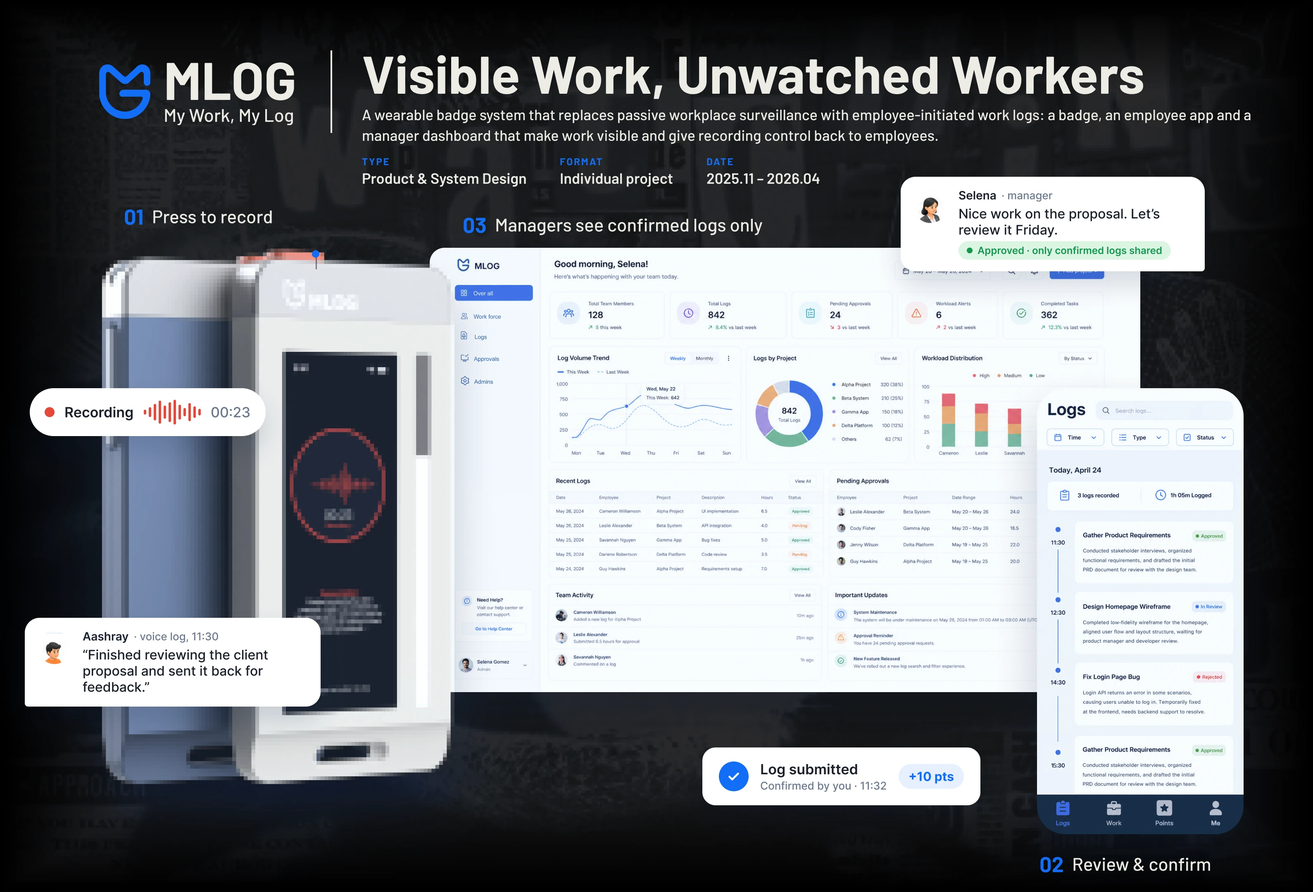
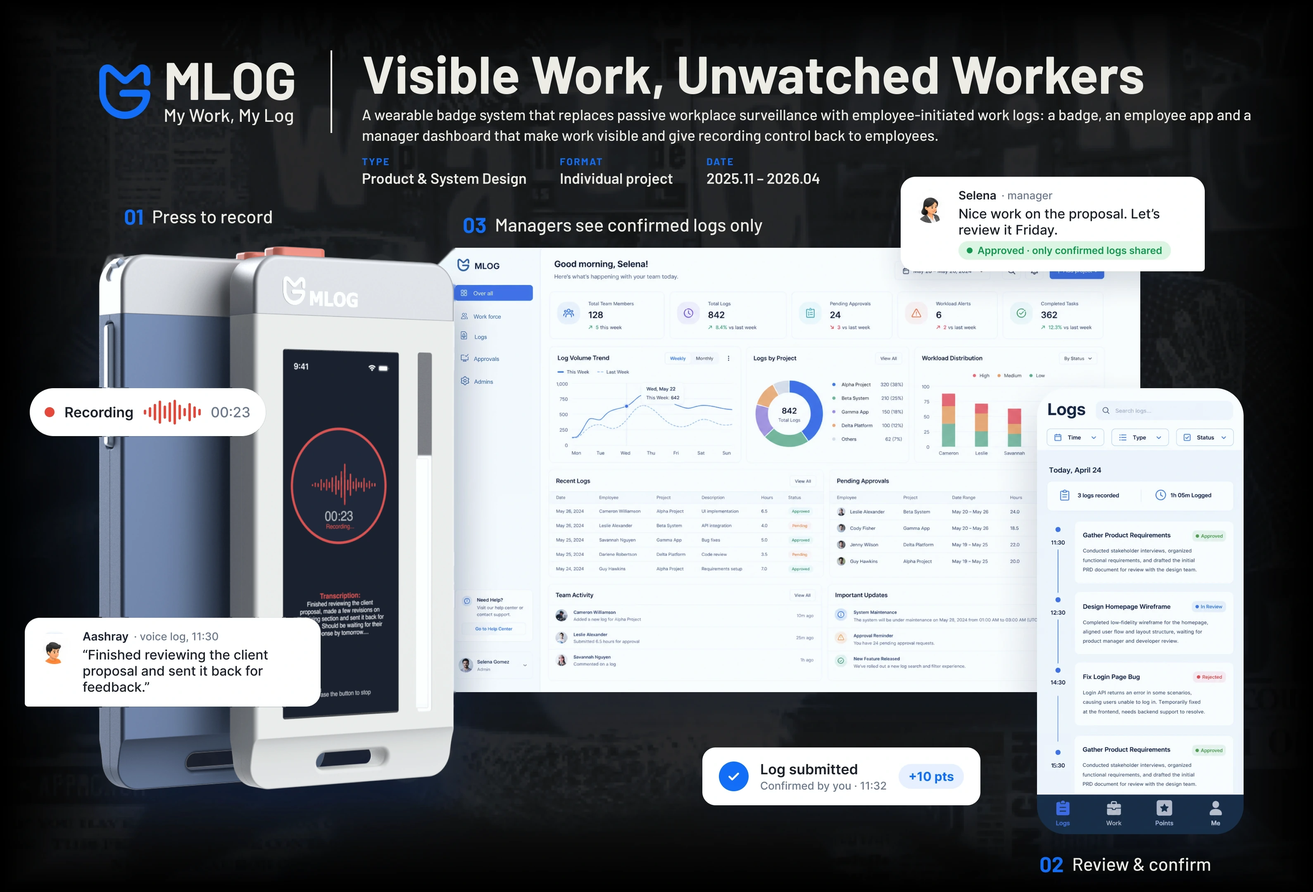
Add Other Works (Interlock Chair, Silverfish, Latent Poem), unify hero entry, Center timeline alignment, MLOG hi-res badges
Claude-Session: https://claude.ai/code/session_01G8eGd7PbTq8hJRgyPBn6mp

diff --git a/otherworks.html b/otherworks.html
@@ -1,0 +1,136 @@
+<!doctype html>
+<html lang="en">
+<head>
+<meta charset="utf-8">
+<meta name="viewport" content="width=device-width,initial-scale=1">
+<meta name="theme-color" content="#050505">
+<title>Other Works · Yihan Zeng</title>
+<meta name="description" content="Other works by Yihan Zeng: an interlocking cardboard chair, a cat fountain for small homes, and Latent Poem, a digital darkroom for film poems.">
+<link rel="stylesheet" href="css/case.css">
+<link rel="stylesheet" href="css/story.css">
+<style>
+:root { --acc: #ff8052 }
+.work-meta { display: flex; flex-wrap: wrap; gap: 6px 22px; margin: 2vh 0 6vh; color: var(--muted) }
+.work-meta span::before { content: "·  "; color: var(--acc) } .work-meta span:first-child::before { content: "" }
+.duo { display: grid; grid-template-columns: minmax(0, 1.5fr) minmax(0, 1fr); gap: clamp(20px, 3vw, 44px); align-items: start }
+.duo.flip { grid-template-columns: minmax(0, 1fr) minmax(0, 1.5fr) }
+.duo figure, .duo2 figure { margin: 0 }
+.cap { display: block; margin-top: 10px; font: 400 11.5px/1.4 var(--mono); letter-spacing: .12em; text-transform: uppercase; color: var(--muted) }
+.lbl { font: 400 11.5px/1.4 var(--mono); letter-spacing: .14em; text-transform: uppercase; color: var(--acc); margin: 0 0 10px; display: block }
+.body p { color: #c5c5be; margin: 0 0 14px; max-width: 34em }
+.cover-fit { aspect-ratio: 4 / 3; object-fit: cover }
+.film { margin-top: 8vh; display: grid; grid-template-columns: minmax(0, 1.2fr) minmax(0, 1fr); gap: clamp(20px, 3vw, 44px); align-items: start }
+.film img { width: 100%; display: block; border-radius: 6px }
+.poem { font: italic 400 clamp(26px, 2.8vw, 40px)/1.25 Garamond, Georgia, serif; color: var(--text); border-left: 2px solid var(--acc); padding: 4px 0 4px 26px; margin: 0 0 18px }
+.trio { --n: 3 } .trio-t { display: block; color: inherit; text-decoration: none } .trio-t img { width: 100%; aspect-ratio: 4 / 3; object-fit: cover; display: block; border-radius: 6px; transition: transform .35s } .trio-t:hover img { transform: translateY(-3px) } .trio-t .cap b { color: var(--acc); font-weight: 400; margin-right: 8px }
+.sec-entry { margin: -2vh 0 7vh }
+@media (max-width: 900px) { .duo, .duo.flip, .film { grid-template-columns: 1fr } }
+</style>
+</head>
+<body>
+<div class="readbar"></div>
+<header class="top">
+  <a class="name" href="index.html"><span class="name-big">YIHAN ZENG</span><span class="name-sub">Industrial &amp; interaction design</span></a>
+  <nav class="menu"><a href="index.html">Work</a><a href="index.html#about">About</a><a href="index.html#contact">Contact</a></nav>
+</header>
+
+<main>
+<section class="c-hero wrap">
+  <a class="c-back mono" href="index.html?project=otherworks">← All projects</a>
+  <div class="c-kicker mono"><span>06 / 06</span><span>Selected side projects</span></div>
+  <h1 class="c-title long">Other<br>Works</h1>
+  <p class="c-sub">Three smaller projects, each made around a material or a medium: <em>a chair cut from cardboard, a fountain for a cat, a darkroom for words.</em></p>
+  <div class="c-entry" aria-label="Interactive prototype"><a class="c-entry-btn" href="https://yi-ziii.github.io/LATENT-POEM/" target="_blank" rel="noopener"><span class="dot"></span><span class="t">Open Latent Poem</span><span class="arr"><svg viewBox="0 0 24 24" fill="none" stroke="currentColor" stroke-width="2.8" stroke-linecap="round" stroke-linejoin="round" aria-hidden="true"><path d="M6 18L18 6M8.5 6H18v9.5"/></svg></span></a><span class="c-entry-note">Interactive · a digital darkroom that turns photographs and words into film poems</span></div>
+  <dl class="c-meta">
+    <div><dt>01 · Interlock Chair</dt><dd>2024 · Furniture design · Built prototype</dd></div>
+    <div><dt>02 · Silverfish</dt><dd>2026 · Pet product design · Design internship at Jingong Design</dd></div>
+    <div><dt>03 · Latent Poem</dt><dd>2026 · Creative coding · Interactive web prototype for Code Society</dd></div>
+  </dl>
+  <div class="g trio">
+    <a class="trio-t" href="#chair"><img src="assets/otherworks/chair-photo.webp" alt="Interlock Chair"><span class="cap"><b>01</b> Interlock Chair</span></a>
+    <a class="trio-t" href="#silverfish"><img src="assets/otherworks/sf-room.webp" alt="Silverfish"><span class="cap"><b>02</b> Silverfish</span></a>
+    <a class="trio-t" href="#latent"><img src="assets/otherworks/lp-expose.webp" alt="Latent Poem"><span class="cap"><b>03</b> Latent Poem ↗</span></a>
+  </div>
+</section>
+
+<nav class="c-nav" aria-label="Chapters"><ol>
+  <li><a href="#chair"><b>01</b>Interlock Chair</a></li>
+  <li><a href="#silverfish"><b>02</b>Silverfish</a></li>
+  <li><a href="#latent"><b>03</b>Latent Poem ↗</a></li>
+</ol></nav>
+
+<div class="wrap">
+
+<!-- 01 -->
+<section class="c-sec" id="chair">
+  <div class="c-head reveal"><div class="c-num">01</div><div>
+    <h2 class="c-h">Interlock Chair</h2>
+    <p class="c-lede">A rounded chair built from interlocking sheets of corrugated cardboard. The first object I designed and built.</p>
+  </div></div>
+  <div class="work-meta mono reveal"><span>Furniture design</span><span>2024</span><span>Built prototype</span><span>Design and fabrication</span></div>
+  <div class="duo reveal">
+    <figure><span class="lbl">Built prototype</span><img class="im" src="assets/otherworks/chair-photo.webp" alt="The finished corrugated cardboard chair" data-zoom="assets/otherworks/chair-photo.webp"><span class="cap">Finished chair / corrugated cardboard</span></figure>
+    <figure><span class="lbl">The slotted joint</span><img class="im" src="assets/otherworks/chair-joint.webp" alt="Close-up of the prototype’s rib joints" data-zoom="assets/otherworks/chair-joint.webp"><span class="cap">Seat and side ribs</span>
+      <div class="body" style="margin-top:16px"><p>Each slotted rib fits over the ribs running across it. The same grid shapes the seat, the sides and the back.</p></div></figure>
+  </div>
+  <h3 class="c-sub-h reveal">From shell to ribs</h3>
+  <p class="c-lede reveal" style="margin-bottom:4vh">I opened up a radial shell to make room for a recessed seat, then developed an intersecting rib grid that carries the curve through the arms and back.</p>
+  <div class="g reveal" style="--n:4">
+    <figure class="tile"><img class="im" src="assets/otherworks/chair-shell.webp" alt="Radial shell sketch" data-zoom="assets/otherworks/chair-shell.webp"><span class="cap">01 / Radial shell</span></figure>
+    <figure class="tile"><img class="im" src="assets/otherworks/chair-ribs.webp" alt="Crossing ribs sketch" data-zoom="assets/otherworks/chair-ribs.webp"><span class="cap">02 / Crossing ribs</span></figure>
+    <figure class="tile"><img class="im" src="assets/otherworks/chair-profile.webp" alt="Revised profile in CAD" data-zoom="assets/otherworks/chair-profile.webp"><span class="cap">03 / Revised profile</span></figure>
+    <figure class="tile"><img class="im" src="assets/otherworks/chair-cad.webp" alt="Final CAD form" data-zoom="assets/otherworks/chair-cad.webp"><span class="cap">04 / Final CAD form</span></figure>
+  </div>
+</section>
+
+<!-- 02 -->
+<section class="c-sec" id="silverfish">
+  <div class="c-head reveal"><div class="c-num">02</div><div>
+    <h2 class="c-h">Silverfish</h2>
+    <p class="c-lede">A cat fountain for small homes, designed around visible water and easier cleaning.</p>
+  </div></div>
+  <div class="work-meta mono reveal"><span>Pet product design</span><span>2026</span><span>Jingong Design</span><span>Design internship</span></div>
+  <div class="duo reveal">
+    <figure><span class="lbl">Final concept</span><img class="im" src="assets/otherworks/sf-room.webp" alt="Silverfish in a home interior" data-zoom="assets/otherworks/sf-room.webp"><span class="cap">Product render / small-home context</span></figure>
+    <figure><span class="lbl">Designed to come apart</span><img class="im" src="assets/otherworks/sf-explode.webp" alt="Exploded assembly: bowl, reservoir and base" data-zoom="assets/otherworks/sf-explode.webp"><span class="cap">Bowl / reservoir / base</span>
+      <div class="body" style="margin-top:16px"><p>The removable bowl and reservoir separate from the weighted base for cleaning.</p><p>The concept also proposes sensor-triggered flow, filtration and UV treatment.</p></div></figure>
+  </div>
+  <div class="g reveal" style="--n:2;margin-top:8vh">
+    <div class="body"><span class="lbl">Two needs from the brief</span><p>Draw the cat towards the water and simplify routine cleaning for people living in compact homes.</p>
+      <span class="lbl" style="margin-top:28px">Making water visible</span><p>Two outlets create a moving sheet of water. A rippled bowl inspired by spiral shells and small fish-shaped elements make that movement visible.</p></div>
+    <div class="body"><span class="lbl">From sketch to form</span><p>The studies moved from a broad bowl on a low base to a deeper, rippled bowl on a compact upright reservoir.</p></div>
+  </div>
+  <div class="g reveal" style="--n:2;margin-top:4vh">
+    <figure class="tile"><img class="im" src="assets/otherworks/sf-sketch.webp" alt="Water flow, form and assembly sketches" data-zoom="assets/otherworks/sf-sketch.webp"><span class="cap">Form and flow sketches</span></figure>
+    <figure class="tile"><img class="im" src="assets/otherworks/sf-iter.webp" alt="Three generations of product concepts" data-zoom="assets/otherworks/sf-iter.webp"><span class="cap">Three form iterations</span></figure>
+  </div>
+</section>
+
+<!-- 03 -->
+<section class="c-sec" id="latent">
+  <div class="c-head reveal"><div class="c-num">03</div><div>
+    <h2 class="c-h">Latent Poem</h2>
+    <p class="c-lede">A digital darkroom that turns shared photographs and words into film poems.</p>
+  </div></div>
+  <div class="c-entry sec-entry reveal" aria-label="Interactive prototype"><a class="c-entry-btn" href="https://yi-ziii.github.io/LATENT-POEM/" target="_blank" rel="noopener"><span class="dot"></span><span class="t">Open Latent Poem</span><span class="arr"><svg viewBox="0 0 24 24" fill="none" stroke="currentColor" stroke-width="2.8" stroke-linecap="round" stroke-linejoin="round" aria-hidden="true"><path d="M6 18L18 6M8.5 6H18v9.5"/></svg></span></a><span class="c-entry-note">Interactive · expose, develop and record your own film poem</span></div>
+  <div class="work-meta mono reveal"><span>Creative coding</span><span>2026</span><span>Code Society</span><span>Interactive web prototype</span></div>
+  <h3 class="c-sub-h reveal" style="margin-top:0">Three steps in the digital darkroom</h3>
+  <div class="g reveal" style="--n:3">
+    <figure class="tile"><img class="im" src="assets/otherworks/lp-expose.webp" alt="Expose: the photograph and word screen" data-zoom="assets/otherworks/lp-expose.webp"><h4><span class="mono">01 / Expose</span></h4><p>Contribute one photograph and one word. Use blur, grain or displacement to change the exposure.</p></figure>
+    <figure class="tile"><img class="im" src="assets/otherworks/lp-develop.webp" alt="Develop: words on the track" data-zoom="assets/otherworks/lp-develop.webp"><h4><span class="mono">02 / Develop</span></h4><p>Drag words onto the track to build a line. The images follow the new word order.</p></figure>
+    <figure class="tile"><img class="im" src="assets/otherworks/lp-record.webp" alt="Record: saved poems" data-zoom="assets/otherworks/lp-record.webp"><h4><span class="mono">03 / Record</span></h4><p>Save the finished poem and image sequence. The Records view lets you revisit both in the browser.</p></figure>
+  </div>
+  <div class="film reveal">
+    <figure><span class="lbl">From browsing to making</span><img src="assets/otherworks/lp-source.webp" alt="Source board showing one word per photograph" data-zoom="assets/otherworks/lp-source.webp"><div class="body" style="margin-top:14px"><p>Society members supplied one word per image. An early prototype let visitors browse the archive. In Latent Poem, those same pairs became the material visitors could rearrange into their own poems.</p></div></figure>
+    <figure><span class="lbl">On the board / printed film poems</span><img src="assets/otherworks/lp-board.webp" alt="A printed film poem pinned on the exhibition board" data-zoom="assets/otherworks/lp-board.webp"><div class="body" style="margin-top:14px"><p class="poem">I have spread<br>my dream<br>under your feet</p><p>Each poem was printed with my film camera printer as a strip of photographs, labelled word by word, and pinned over the prototype screens.</p></div></figure>
+  </div>
+</section>
+</div>
+
+<a class="c-next" href="center.html"><div><span class="mono">Back to the start · 01</span><b>Should Humans Remain at the Center?</b></div><span class="arrow">→</span></a>
+</main>
+<footer class="foot"><span>© 2026 Yihan Zeng</span><a href="#">Back to top ↑</a></footer>
+
+<script src="js/case.js"></script>
+</body>
+</html>

diff --git a/center.html b/center.html
@@ -70,7 +70,7 @@
 .tl-img { position: relative }
 .tl-img i { position: absolute; bottom: 0; width: 1.5px; margin-left: -1px; background: #d9d3c3 }
 .tl-img i::before { content: ""; position: absolute; top: -4px; left: -3.25px; width: 8px; height: 8px; border-radius: 50% ; background: #d9d3c3 }
-.eras { list-style: none; margin: 0; padding: 0 0 0 10%; display: grid; grid-template-columns: 23% 17% 16% 18% 16% }
+.eras { list-style: none; margin: 0; padding: 0; display: grid; grid-template-columns: 10% 23% 17% 16% 18% 16% } .eras::before { content: "" }
 .eras li { border-left: 1.5px solid #d9d3c3; padding: 18px 16px 4px 14px; margin-left: -1px; position: relative }
 .eras h4 { margin: 8px 0 6px; font: 600 18px/1.2 var(--sans) } .eras p { margin: 0; color: #bdbdb6; font-size: 15px; max-width: 15em }
 .eras .now h4, .eras .now .mono { color: var(--acc) }
@@ -181,7 +181,7 @@
   .turnq, .play-card, .debate, .sides, .swap, .rules, .turns, .ways, .focus, .concept, .stairs, .sculpt, .sculpt:nth-child(even), .rings, .voices4 { grid-template-columns: 1fr }
   .sculpt:nth-child(even) .sk-pics { order: 0 }
   .side-cat .voices li::after, .side-painting .voices li::after { display: none }
-  .eras { grid-template-columns: 1fr 1fr; padding: 3vh var(--gutter) 0; gap: 22px 18px } .eras li { border-left: 0; border-top: 1.5px solid #d9d3c3; padding: 12px 0 0 } .tl-img i { display: none } .survey-key { grid-template-columns: 1fr 1fr } .survey-key p { grid-column: 1 / -1 }
+  .eras { grid-template-columns: 1fr 1fr; padding: 3vh var(--gutter) 0; gap: 22px 18px } .eras::before { display: none } .eras li { border-left: 0; border-top: 1.5px solid #d9d3c3; padding: 12px 0 0 } .tl-img i { display: none } .survey-key { grid-template-columns: 1fr 1fr } .survey-key p { grid-column: 1 / -1 }
   .mx-row, .qt-row { grid-template-columns: 1fr } .mx-head, .qt-head { display: none }
   .chain, .io { grid-template-columns: 1fr 1fr } .chain li::after { display: none }
   .flow7 { grid-auto-columns: 78% } .making { columns: 2 }
@@ -200,10 +200,10 @@
 <main>
 <section class="c-hero wrap">
   <a class="c-back mono" href="index.html?project=center">← All projects</a>
-  <div class="c-kicker mono"><span>01 / 05</span><span>Interactive installation</span></div>
+  <div class="c-kicker mono"><span>01 / 06</span><span>Interactive installation</span></div>
   <h1 class="c-title long">Should Humans Remain at the Center?</h1>
   <p class="c-sub">Humans have always stood at the center. Now we want to leave. <em>But leaving is never free.</em></p>
-  <div class="c-live" aria-label="Live pages"><a class="c-live-btn" href="center-experience/" target="_blank" rel="noopener"><span class="dot"></span>Play the digital edition<i>↗</i></a></div>
+  <div class="c-entry" aria-label="Live page"><a class="c-entry-btn" href="center-experience/" target="_blank" rel="noopener"><span class="dot"></span><span class="t">Play the digital edition</span><span class="arr"><svg viewBox="0 0 24 24" fill="none" stroke="currentColor" stroke-width="2.8" stroke-linecap="round" stroke-linejoin="round" aria-hidden="true"><path d="M6 18L18 6M8.5 6H18v9.5"/></svg></span></a><span class="c-entry-note">Interactive · four sculptures, twelve questions, sound on</span></div>
   <dl class="c-meta">
     <div><dt>Format</dt><dd>Interactive installation · four sculptures · voice</dd></div>
     <div><dt>Research</dt><dd>205-person survey · 12 situations</dd></div>

diff --git a/css/case.css b/css/case.css
@@ -320,3 +320,16 @@ body.mode-pdf .pdfview { display: block }
 .c-film.playing video { width: 100%; height: 100%; display: block; background: #000; object-fit: contain }
 @media (max-width: 760px) { .c-film-label { padding: 10px 16px 10px 10px; font-size: 14px; gap: 12px } .c-film-icon { width: 40px; height: 40px } .c-film-icon::after { left: 16px; top: 12px; border-width: 8px; border-left-width: 12px } }
 .pdf-dl { white-space: nowrap } @media (max-width: 600px) { .pdf-actions .mono { display: none } }
+
+/* ======= unified hero entry (all projects) ======= */
+.c-entry { display: flex; align-items: center; flex-wrap: wrap; gap: 14px 24px; margin: 30px 0 8px }
+.c-entry-btn { display: flex; align-items: center; gap: 18px; width: min(100%, 460px); height: 68px; white-space: nowrap; padding: 0 12px 0 26px; border-radius: 999px; background: var(--acc); color: #111; text-decoration: none; font: 600 clamp(19px, 1.55vw, 23px)/1 var(--sans); letter-spacing: -.01em; box-shadow: 0 0 0 0 color-mix(in srgb, var(--acc) 45%, transparent); animation: entryGlow 2.4s ease-in-out infinite; transition: transform .25s }
+.c-entry-btn .dot { width: 12px; height: 12px; border-radius: 50%; background: #111; animation: entryPulse 1.8s ease-out infinite; flex: none }
+.c-entry-btn .arr { margin-left: auto; display: grid; place-items: center; width: 46px; height: 46px; border-radius: 50%; background: #111; color: var(--acc); flex: none; transition: transform .25s }
+.c-entry-btn .arr svg { width: 22px; height: 22px; display: block }
+.c-entry-btn:hover { transform: translateY(-2px) } .c-entry-btn:hover .arr { transform: translate(2px, -2px) }
+.c-entry-note { font: 400 12px/1.5 var(--mono); letter-spacing: .1em; text-transform: uppercase; color: var(--muted); max-width: 30em }
+@media (max-width: 640px) { .c-entry-btn { height: 60px; padding-left: 20px; font-size: 18px } .c-entry-btn .arr { width: 40px; height: 40px } }
+@keyframes entryPulse { 0% { box-shadow: 0 0 0 0 #1118 } 100% { box-shadow: 0 0 0 14px #1110 } }
+@keyframes entryGlow { 0%, 100% { box-shadow: 0 0 0 0 transparent } 50% { box-shadow: 0 0 40px 2px color-mix(in srgb, var(--acc) 38%, transparent) } }
+@media (prefers-reduced-motion: reduce) { .c-entry-btn, .c-entry-btn .dot { animation: none } }

diff --git a/mlog.html b/mlog.html
@@ -50,7 +50,7 @@
 <main>
 <section class="c-hero wrap">
   <a class="c-back mono" href="index.html?project=mlog">← All projects</a>
-  <div class="c-kicker mono"><span>05 / 05</span><span>Product &amp; system design</span></div>
+  <div class="c-kicker mono"><span>05 / 06</span><span>Product &amp; system design</span></div>
   <h1 class="c-title">MLOG</h1>
   <p class="c-sub">My Work, My Log — a wearable badge, an employee app and a manager dashboard that turn workplace monitoring into <em>records the employee chooses to make.</em></p>
   <dl class="c-meta">
@@ -269,10 +269,10 @@
   <div class="split reveal" style="--a:.6fr;margin-top:6vh">
     <div class="ext">
       <img src="assets/mlog/07/07-badge-exterior.webp" alt="MLOG badge exterior" data-zoom="assets/mlog/07/07-badge-exterior.webp">
-      <span class="ext-pt" style="left:18%;top:1.6%"><b>1</b></span>
-      <span class="ext-pt" style="left:95%;top:6%"><b>2</b></span>
-      <span class="ext-pt" style="left:80%;top:40%"><b>3</b></span>
-      <span class="ext-pt" style="left:44%;top:62%"><b>4</b></span>
+      <span class="ext-pt" style="left:28.6%;top:2.8%"><b>1</b></span>
+      <span class="ext-pt" style="left:92%;top:27.6%"><b>2</b></span>
+      <span class="ext-pt" style="left:73.7%;top:61.8%"><b>3</b></span>
+      <span class="ext-pt" style="left:25%;top:30%"><b>4</b></span>
     </div>
     <ol class="nums ext-list">
       <li><b>1</b><h4>Top button</h4><p>One-touch voice recording and log capture. Hold to speak, release to stop — a clear start and end.</p></li>
@@ -325,7 +325,7 @@
 </section>
 </div>
 
-<a class="c-next" href="center.html"><div><span class="mono">Next project · 01</span><b>Should Humans Remain at the Center?</b></div><span class="arrow">→</span></a>
+<a class="c-next" href="otherworks.html"><div><span class="mono">Next project · 06</span><b>Other Works</b></div><span class="arrow">→</span></a>
 </main>
 <footer class="foot"><span>© 2026 Yihan Zeng</span><a href="#">Back to top ↑</a></footer>
 

diff --git a/harmony.html b/harmony.html
@@ -49,10 +49,10 @@
 <main>
 <section class="c-hero wrap">
   <a class="c-back mono" href="index.html?project=harmony">← All projects</a>
-  <div class="c-kicker mono"><span>03 / 05</span><span>Spatial &amp; service design</span></div>
+  <div class="c-kicker mono"><span>03 / 06</span><span>Spatial &amp; service design</span></div>
   <h1 class="c-title long">Harmony<br>Osteria</h1>
   <p class="c-sub">A restaurant in the hills behind Genoa where you <em>taste how the wild is doing today.</em> The menu is rewritten every morning from last night’s wildlife counts.</p>
-  <div class="c-live big" aria-label="Live website"><a class="c-live-btn" href="harmony-osteria/" target="_blank" rel="noopener"><span class="dot"></span>Visit the osteria’s live website<i>↗</i></a><small>Interactive · tonight’s menu, written from last night’s counts</small></div>
+  <div class="c-entry" aria-label="Live page"><a class="c-entry-btn" href="harmony-osteria/" target="_blank" rel="noopener"><span class="dot"></span><span class="t">Visit the live website</span><span class="arr"><svg viewBox="0 0 24 24" fill="none" stroke="currentColor" stroke-width="2.8" stroke-linecap="round" stroke-linejoin="round" aria-hidden="true"><path d="M6 18L18 6M8.5 6H18v9.5"/></svg></span></a><span class="c-entry-note">Interactive · tonight’s menu, written from last night’s counts</span></div>
   <dl class="c-meta">
     <div><dt>Context</dt><dd>Exchange semester, University of Genoa</dd></div>
     <div><dt>Discipline</dt><dd>Spatial, service &amp; interaction design</dd></div>

diff --git a/lookcoin.html b/lookcoin.html
@@ -205,10 +205,10 @@ q { display: inline-block; margin-top: 12px; border: 1px solid #ffffff55; border
 <main>
 <section class="c-hero wrap">
   <a class="c-back mono" href="index.html?project=lookcoin">← All projects</a>
-  <div class="c-kicker mono"><span>02 / 05</span><span>Speculative design</span></div>
+  <div class="c-kicker mono"><span>02 / 06</span><span>Speculative design</span></div>
   <h1 class="c-title">LookCoin</h1>
   <p class="c-sub">A near-future city where smart glasses verify where we look, and human attention is measured, priced and paid for in <em>its own currency.</em></p>
-  <div class="c-live" aria-label="Live pages"><a class="c-live-btn" href="lookcoin-city/" target="_blank" rel="noopener"><span class="dot"></span>Explore the city simulation<i>↗</i></a></div>
+  <div class="c-entry" aria-label="Live page"><a class="c-entry-btn" href="lookcoin-city/" target="_blank" rel="noopener"><span class="dot"></span><span class="t">Explore the city simulation</span><span class="arr"><svg viewBox="0 0 24 24" fill="none" stroke="currentColor" stroke-width="2.8" stroke-linecap="round" stroke-linejoin="round" aria-hidden="true"><path d="M6 18L18 6M8.5 6H18v9.5"/></svg></span></a><span class="c-entry-note">Interactive · earn, spend and compare in a simulated city</span></div>
   <dl class="c-meta">
     <div><dt>Discipline</dt><dd>Speculative &amp; interaction design, worldbuilding</dd></div>
     <div><dt>Setting</dt><dd>A fictional Beijing, 2035 — year 9 of LookCoin</dd></div>

diff --git a/medimate.html b/medimate.html
@@ -33,10 +33,10 @@
 <main>
 <section class="c-hero wrap">
   <a class="c-back mono" href="index.html?project=medimate">← All projects</a>
-  <div class="c-kicker mono"><span>04 / 05</span><span>Health interaction &amp; game design</span></div>
+  <div class="c-kicker mono"><span>04 / 06</span><span>Health interaction &amp; game design</span></div>
   <h1 class="c-title">MediMate</h1>
   <p class="c-sub">Before reaching for an antibiotic — a medication history app and a playable game about the consequences of <em>everyday antibiotic decisions.</em></p>
-  <div class="c-live" aria-label="Live pages"><a class="c-live-btn" href="medimate-game/" target="_blank" rel="noopener"><span class="dot"></span>Play Inside Defense<i>↗</i></a></div>
+  <div class="c-entry" aria-label="Live page"><a class="c-entry-btn" href="medimate-game/" target="_blank" rel="noopener"><span class="dot"></span><span class="t">Play Inside Defense</span><span class="arr"><svg viewBox="0 0 24 24" fill="none" stroke="currentColor" stroke-width="2.8" stroke-linecap="round" stroke-linejoin="round" aria-hidden="true"><path d="M6 18L18 6M8.5 6H18v9.5"/></svg></span></a><span class="c-entry-note">Interactive · the tower-defense game, in the browser</span></div>
   <dl class="c-meta">
     <div><dt>Programme</dt><dd>UNESCO Youth Education Research Centre · Art for 2030 · July 2026</dd></div>
     <div><dt>Team</dt><dd>Five people · one month</dd></div>

diff --git a/home.js b/home.js
@@ -36,6 +36,13 @@ const PROJECTS = [
     summary: 'A wearable badge system that replaces passive workplace surveillance with work logs that employees start themselves. A badge, an employee app and a manager dashboard make work visible, while managers only see the records an employee has reviewed and confirmed.',
     meta: [['Format', 'Individual project'], ['Date', '2025.11 – 2026.04']],
     live: ''
+  },
+  {
+    slug: 'otherworks', title: 'Other Works', ratio: 1.5,
+    category: 'Selected side projects',
+    summary: 'Three smaller projects: Interlock Chair, a rounded chair built from interlocking sheets of corrugated cardboard; Silverfish, a cat fountain designed around visible water and easier cleaning; and Latent Poem, an interactive digital darkroom that turns shared photographs and words into film poems.',
+    meta: [['Works', 'Interlock Chair · Silverfish · Latent Poem'], ['Date', '2024 – 2026']],
+    live: ''
   }
 ];
 

diff --git a/css/story.css b/css/story.css
@@ -57,11 +57,6 @@ img[data-zoom] { cursor: zoom-in }
 }
 
 /* prominent live entry in the hero */
-.c-live.big { margin: 28px 0 8px }
-.c-live.big .c-live-btn { font-size: clamp(18px, 1.6vw, 24px); padding: 18px 30px 18px 22px; gap: 16px; background: var(--acc); color: #111; border-color: var(--acc); animation: glow 2.4s ease-in-out infinite; font-weight: 600 }
-.c-live.big .c-live-btn .dot { width: 14px; height: 14px; background: #111; box-shadow: 0 0 0 0 #1118; animation: pulse 1.8s ease-out infinite }
-.c-live.big .c-live-btn i { font-style: normal; font-size: 1.1em }
-.c-live.big small { display: block; margin-top: 10px; font: 400 12px var(--mono); letter-spacing: .1em; text-transform: uppercase; color: var(--muted) }
 /* illustrations with light backgrounds: fade the edges into the black page (MLOG) */
 img[src*="04-wearable-recorder"], img[src*="04-employee-app"], img[src*="04-manager-workspace"],
 img[src*="/08-journey-"] {

diff --git a/home.css b/home.css
@@ -48,6 +48,7 @@ em { font: italic 1.08em Garamond, Georgia, serif; color: var(--text) }
 .work-center .work-name { font-size: 7.8cqw; line-height: 1 }
 .work-harmony .work-name { font-size: 10.4cqw }
 .work-mlog .work-name { font-size: 22cqw }
+.work-otherworks .work-name { font-size: 11.5cqw; line-height: 1 }
 .work.current { color: #fff }
 .work.current .work-meta { color: var(--signal) }
 .work:hover { color: #9a9a9a }

diff --git a/index.html b/index.html
@@ -38,7 +38,7 @@
         <span class="lens-hint">Move to reveal</span>
       </div>
       <div class="info" id="info"></div>
-      <div class="progress" id="progress"><span><b>01</b> / 05</span><i></i></div>
+      <div class="progress" id="progress"><span><b>01</b> / 06</span><i></i></div>
     </aside>
   </section>
 
